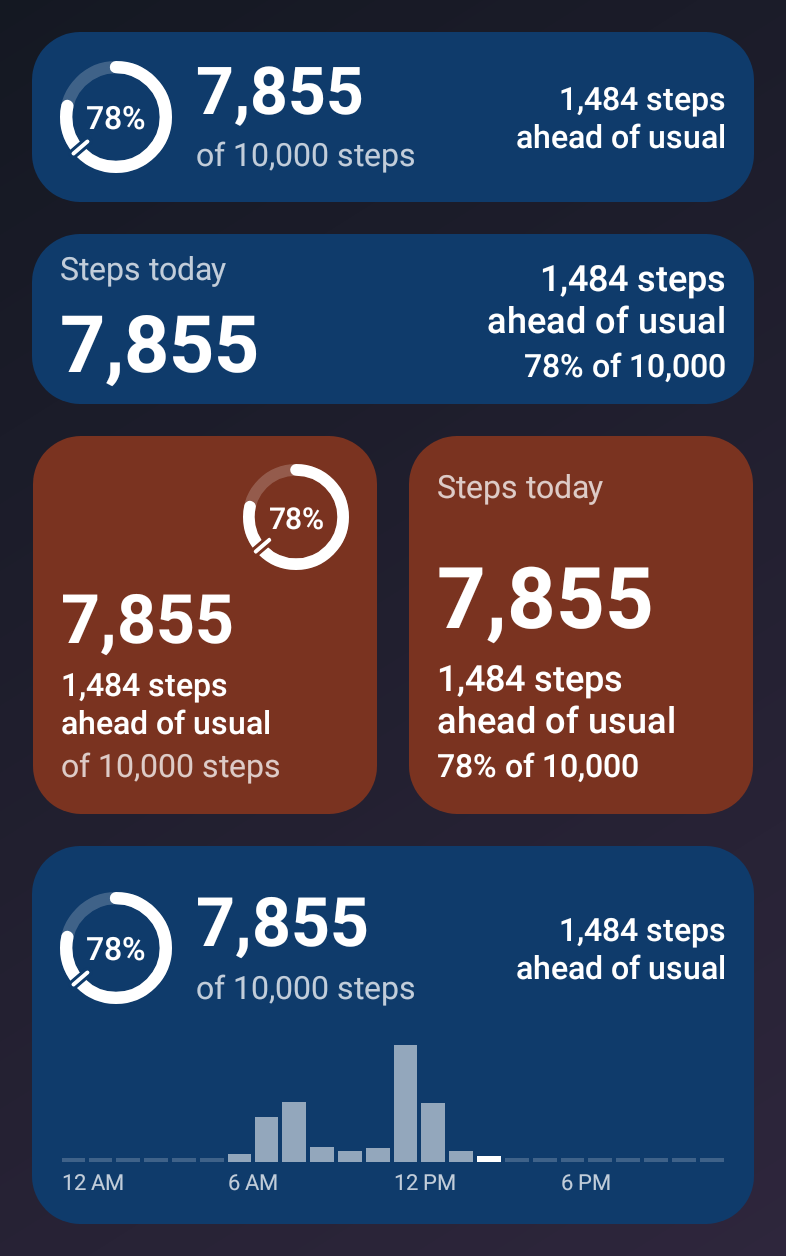
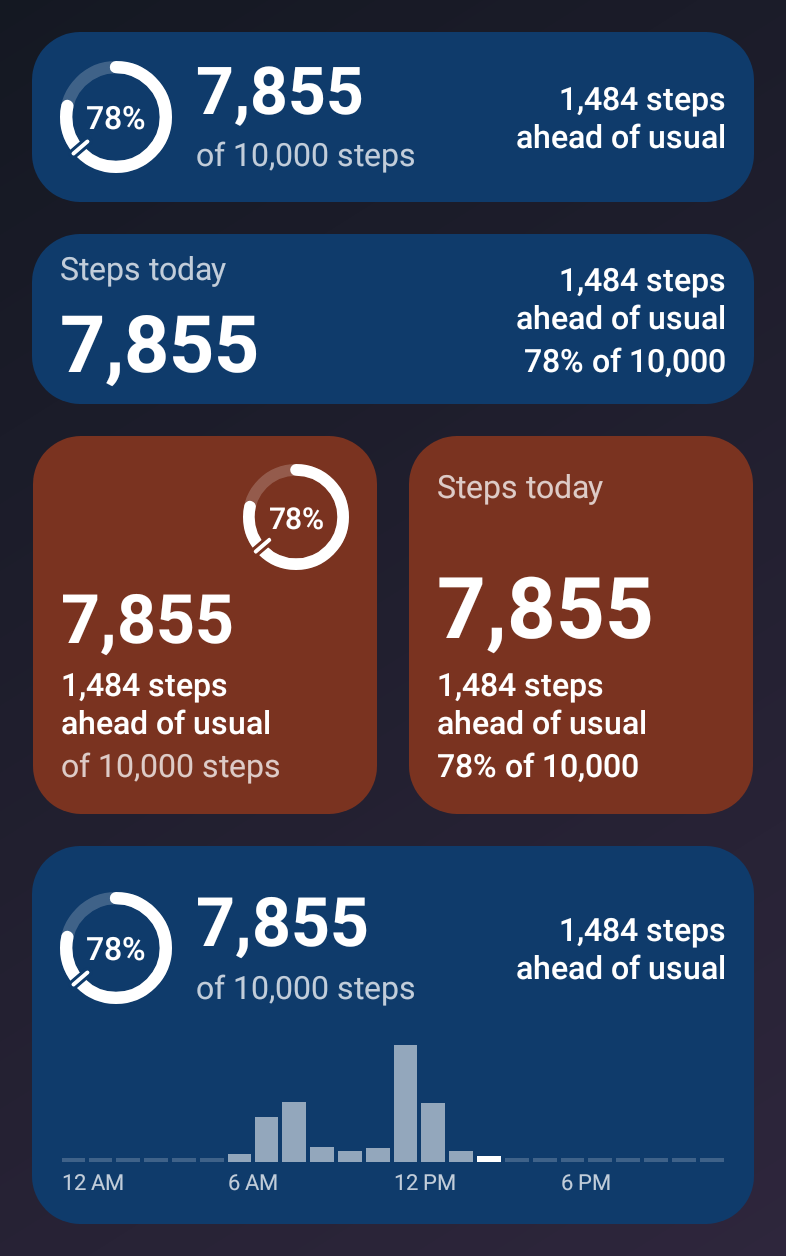
Widgets: the words card's sentence on the scale
The owner put the last size off the widget scale on it (13 Oct 2026):
the words card's sentence goes from 18 sp to the scale's body, 16, the
size of the facts under it, and sorts from them by weight and ink. The
room it gives back holds the whole sentence on a one-row card and one
more line on the two-by-two. WidgetTypeTest has no exception left; ADR
0005, PLANNING §15 and the changelog record it; widgets.png is redrawn.

Claude-Session: https://claude.ai/code/session_01AeiNiksfzGnkJA1B6cQ82J

Changed region(s): [[0.5496, 0.4347, 0.855, 0.59], [0.6107, 0.1863, 0.916, 0.3105]]

diff --git a/widget/src/main/kotlin/com/callbackdev/passo/widget/words/WordsLayout.kt b/widget/src/main/kotlin/com/callbackdev/passo/widget/words/WordsLayout.kt
@@ -15,16 +15,17 @@ import com.callbackdev.passo.widget.textSizeForLine
 
 /*
  * «In words»: the day with nothing drawn on it but two small marks, and
- * its whole hierarchy built out of type, in four ranks, each differing by size AND
- * weight AND ink:
+ * its whole hierarchy built out of type, in four ranks, each differing by weight AND ink, and
+ * by size wherever the scale has a step between them (the sentence and the facts share 16 sp
+ * since 13 Oct 2026):
  *
  * | rank | what | size | weight | ink |
  * |---|---|---|---|---|
  * | 1 | today's steps | scaled to the grant | Bold | strong |
  * | 2 | the day's sentence | [WORDS_SENTENCE_SP] | Medium | strong |
- * | 3 | «Steps today», the goal, distance and calories, the day in figures | 16 (14 for a table's words) | Regular / Medium figures | quiet / strong |
+ * | 3 | «Steps today», the goal, distance and calories, the day in figures | 16 (13 for a table's words) | Regular / Medium figures | quiet / strong |
  * | 2 | or, when the count is not moving, what a tap does about it | [WORDS_SENTENCE_SP] | Medium | attention |
- * | 4 | the same, on the one-cell card, as a footnote | 12 | Medium | attention |
+ * | 4 | the same, on the one-cell card, as a footnote | 13 | Medium | attention |
  *
  * The number is sized by the grant, the way «At a glance» sizes its ring. Four forms:
  *
@@ -64,7 +65,12 @@ internal val LeadingMin = 96.dp
 /** About eleven characters of 18 sp: the narrowest column worth a sentence. */
 internal val SentenceColumnMin = 104.dp
 
-internal const val WORDS_SENTENCE_SP = 18f
+/**
+ * The sentence: the scale's [WidgetType.BODY] since 13 Oct 2026 (owner, the family's widget
+ * review: "put it on the scale"), from 18. It shares 16 sp with the facts under it and sorts
+ * from them by weight and ink, Medium and strong over Regular and quiet.
+ */
+internal const val WORDS_SENTENCE_SP = WidgetType.BODY
 internal const val DETAIL_LABEL_SP = WidgetType.LABEL
 
 // --- One row ---------------------------------------------------------------------------------

diff --git a/widget/src/test/kotlin/com/callbackdev/passo/widget/WidgetTypeTest.kt b/widget/src/test/kotlin/com/callbackdev/passo/widget/WidgetTypeTest.kt
@@ -6,7 +6,6 @@ import com.callbackdev.passo.widget.glance.SENTENCE_LINE_SP
 import com.callbackdev.passo.widget.words.DETAIL_LABEL_SP
 import com.callbackdev.passo.widget.words.WORDS_SENTENCE_SP
 import org.junit.Assert.assertEquals
-import org.junit.Assert.assertFalse
 import org.junit.Assert.assertTrue
 import org.junit.Test
 
@@ -29,8 +28,8 @@ class WidgetTypeTest {
     }
 
     @Test
-    fun `the words card's sentence is the one exception`() {
-        assertFalse(WORDS_SENTENCE_SP in WidgetType.steps)
-        assertEquals(18f, WORDS_SENTENCE_SP)
+    fun `the words card's sentence is on the scale too`() {
+        assertTrue(WORDS_SENTENCE_SP in WidgetType.steps)
+        assertEquals(WidgetType.BODY, WORDS_SENTENCE_SP)
     }
 }

diff --git a/widget/src/main/kotlin/com/callbackdev/passo/widget/WidgetType.kt b/widget/src/main/kotlin/com/callbackdev/passo/widget/WidgetType.kt
@@ -14,9 +14,9 @@ package com.callbackdev.passo.widget
  *   card, the words card, the figure inside the ring) the grant decides, and those sizes are
  *   not steps.
  *
- * One size stays off the scale on purpose: the words card's sentence at 18 sp
- * ([WORDS_SENTENCE_SP]). On a card with no drawing the sentence is the second thing read,
- * and 17 over a 16 sp fact is not a rank. `WidgetTypeTest` holds every fixed size to a step.
+ * Every fixed size is a step: the words card's sentence ([WORDS_SENTENCE_SP]) was the one
+ * exception, at 18 sp, until it joined the scale too (13 Oct 2026). `WidgetTypeTest` holds
+ * every fixed size to a step.
  */
 internal object WidgetType {
     const val CAPTION = 11f

diff --git a/PLANNING.md b/PLANNING.md
@@ -1474,6 +1474,8 @@ Include:
 
 - **The launcher's corner** (owner, 13 Oct 2026, the family's widget review). A card's corner is the one the launcher gives its widgets (`system_app_widget_background_radius`), in the card, the settings screen's preview and the picker's preview, where it was a fixed 24 dp: on stock Android 16 that is the same 24 dp, so nothing moves there, and on a phone whose launcher sets its own the card now matches the widgets beside it. (ADR 0005, decision 15)
 
+- **The words card's sentence on the scale** (owner, 13 Oct 2026: "put it on the scale", after seeing it before and after). `WORDS_SENTENCE_SP` goes from 18 to the scale's body, 16, the size of the facts under it; the two sort by weight and ink (Medium and strong over Regular and quiet), the way «At a glance»'s sentence always has. The room it gives back is spent the way the budget spends it: the one-row card prints the whole sentence ("1,484 steps ahead of usual") where it printed the short one ("+1,484 on usual"), and the two-by-two adds a line of distance and calories. `WidgetTypeTest` has no exception left. (ADR 0005, decision 14)
+
 ### Open
 
 - **The Ways on a widget?** Not in Phase 11; a natural line for «In words» later.

diff --git a/docs/adr/0005-widgets.md b/docs/adr/0005-widgets.md
@@ -95,8 +95,9 @@ part in the style of Chiaro's «Colpo d'occhio».
     16, title 22, display 30, hero 34), and the family's cards print in it so a fact or a label is
     one size on every card: `WidgetType.kt`, held by `WidgetTypeTest`. Here the status footnote
     went from 12 to 13, the words card's detail labels from 14 to 13 and the empty card's message
-    from 14 and 12 to 16 and 13; sizes the grant decides are not steps, and the words card's 18 sp
-    sentence stays off the scale for the reason in decision 1.
+    from 14 and 12 to 16 and 13; sizes the grant decides are not steps. The words card's
+    sentence stayed off the scale at 18 sp for the reason in decision 1 until the owner put it
+    on too, the same day: 16 sp, sorted from the facts by weight and ink.
 15. **The launcher's corner** (amendment of 13 Oct 2026, from the family's widget review). The card
     takes the radius the launcher gives its widgets (`system_app_widget_background_radius`, in
     `WidgetCard`, the settings preview and `widget_preview_card`) instead of decision 3's fixed

diff --git a/CHANGELOG.md b/CHANGELOG.md
@@ -82,6 +82,8 @@ All notable changes to Passo are documented here. The format follows
 - **Widgets: the family's sizes.** The line that says the count is paused, the words card's
   figures' labels and the message a card shows before it counts now use the same sizes as the
   family's other cards.
+- **«In words» says more**: its sentence is the size of the facts under it, and the room that
+  gives back holds the whole sentence on a one-row card and one more line on a square one.
 - **Widgets wear your launcher's corner**, so they match the widgets beside them.
 - **A signal is not lost to a phone call.** A spoken signal due while you are on the phone is
   said when the call ends; in an interval walk, as the interval you are in then and the time left
